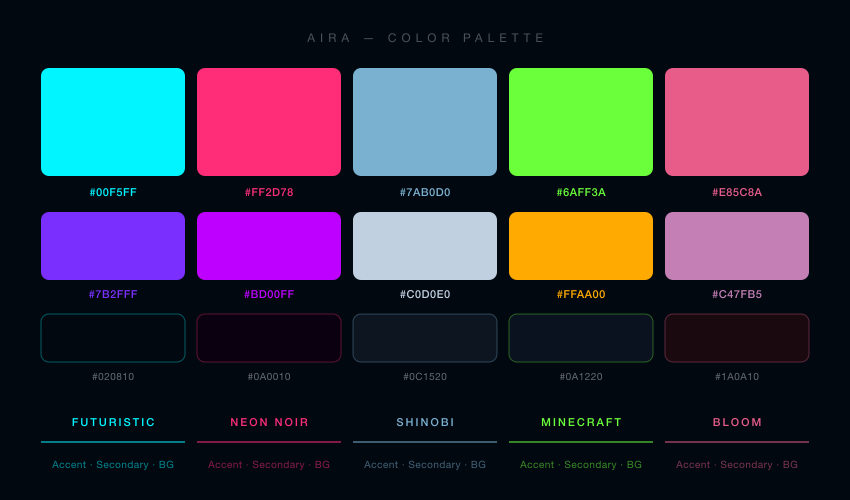
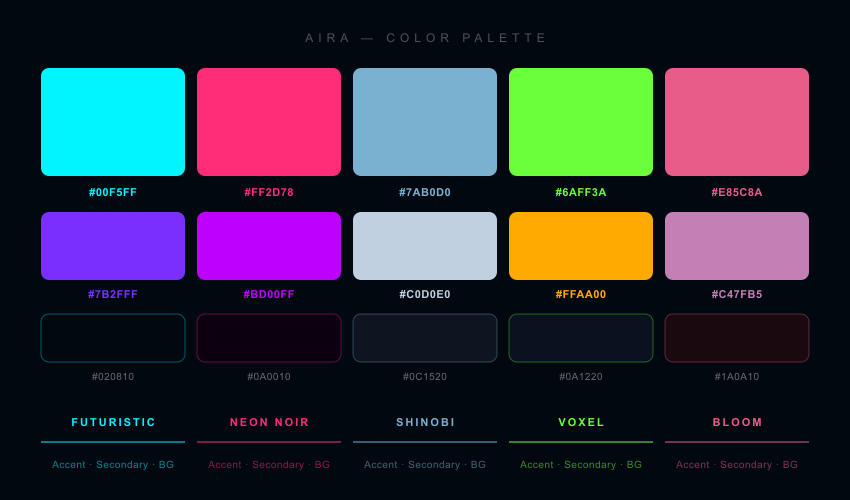
chore(brand): renombrar asset de tema minecraft -> voxel (issue #67)
- generate-brand-assets.js: config de tema minecraft -> voxel
- aira-minecraft.svg/png + aira-icon-minecraft -> aira-voxel.* (regenerados)
- aira-color-palette.svg: label MINECRAFT -> VOXEL
- brand/README.md, HANDOFF.md: tablas y descripciones sin marcas

Nota: PNGs de logo/social/icono no-relacionados NO se regeneraron para no
degradar el render de texto (esta maquina no tiene Helvetica Neue). Los
assets shipped (og-image, twitter-card, app icons) quedan intactos.

diff --git a/brand/generate-brand-assets.js b/brand/generate-brand-assets.js
@@ -24,7 +24,7 @@ const THEMES = [
   { id: 'futuristic', name: 'Futuristic', c1: '#00f5ff', c2: '#7b2fff', bg1: '#020810', bg2: '#0a1828' },
   { id: 'neon-noir',  name: 'Neon Noir',  c1: '#ff2d78', c2: '#bd00ff', bg1: '#0a0010', bg2: '#120020' },
   { id: 'shinobi',    name: 'Shinobi',    c1: '#7ab0d0', c2: '#c0d0e0', bg1: '#0c1520', bg2: '#1a2030' },
-  { id: 'minecraft',  name: 'Minecraft',  c1: '#6aff3a', c2: '#ffaa00', bg1: '#0a1220', bg2: '#182030' },
+  { id: 'voxel',      name: 'Voxel',      c1: '#6aff3a', c2: '#ffaa00', bg1: '#0a1220', bg2: '#182030' },
   { id: 'bloom',      name: 'Bloom',      c1: '#e85c8a', c2: '#c47fb5', bg1: '#1a0a10', bg2: '#280f1a' },
 ];
 const DEF  = THEMES[0]; // Default (Futuristic) used for primary brand color

diff --git a/HANDOFF.md b/HANDOFF.md
@@ -32,7 +32,7 @@
 | **Racha diaria** | `getDailyStreak()`: contador `{ date, count }` en localStorage (`fb_streak`). Badge `🔥 N DÍAS` en el header de los rings. |
 | **Metas de rings** | Recovery ≥100pts, Calorías 500 kcal activas (`#calv`), Pasos 10,000 (`#stepsv`), Min. Activos 30 min (cardio+peak HR zones), Sueño 8h=100%. |
 | **Escala desktop** | Grid `.mg` ampliado de 236px→272px. `@media(min-width:900px)` escala SVGs de 58px→44px para que los 5 rings quepan en la card narrow de desktop. |
-| **AIRA Narrative** | `genAiraMsg()`: mensaje contextual bajo el nombre del usuario. 9 pools de estado (peak/peak_great/peak_stress/peak_sleep/high/high_stress/high_sleep/mid/mid_stress/mid_sleep/low/low_stress/floor + demo) × ES/EN. 4 voces temáticas: naruto=chakra, mc=gaming, halo=SPARTAN, bloom=wellness (fut usa la voz default de AIRA). Modifiers: stress >65, sleepPct <50, sleepPct ≥75. Rotación diaria (`day % pool.length`). Fade-in con `.live` class. Llamado desde `updateScores()` + `setLang()`. |
+| **AIRA Narrative** | `genAiraMsg()`: mensaje contextual bajo el nombre del usuario. 9 pools de estado (peak/peak_great/peak_stress/peak_sleep/high/high_stress/high_sleep/mid/mid_stress/mid_sleep/low/low_stress/floor + demo) × ES/EN. 4 voces temáticas: shinobi=chakra, voxel=gaming, neonnoir=netrunner, bloom=wellness (fut usa la voz default de AIRA). Modifiers: stress >65, sleepPct <50, sleepPct ≥75. Rotación diaria (`day % pool.length`). Fade-in con `.live` class. Llamado desde `updateScores()` + `setLang()`. |
 | **`.wsrow` oculto** | `display:none` en CSS — los rings reemplazan ESFUERZO/RESP/SUEÑO visualmente. Los elementos siguen en DOM (los scripts que los actualizan no se rompen). |
 
 **Funciones clave añadidas:**
@@ -67,7 +67,7 @@
 
 | Área | Qué |
 |---|---|
-| **Naruto easter eggs** | Shuriken CSS spinners en `.vc` cards, kunai blade, makimono scroll tag (巻), scratch effect en labels, chip de rango dinámico (Aprendiz→Genin→Chunin→Jonin→Kage). |
+| **Shinobi easter eggs** | Shuriken CSS spinners en `.vc` cards, kunai blade, makimono scroll tag (巻), scratch effect en labels, chip de rango dinámico (Aprendiz→Genin→Chunin→Jonin→Kage). |
 | **Reorder biométrico** | Home: HR › HRV › Estrés › Cal › SpO₂ › Temp. Col3: Sueño primero, HR Chart segundo. Stats: Recovery › Sueño › HR Zonas › Cuerpo › Fitness. |
 | **Jiggle mode (edición widgets)** | Long-press 500ms → modo edición estilo iPhone. Badge `×` frosted-glass top-left para eliminar. Botón LISTO flotante. El `?` ya NO se dispara durante jiggle. |
 | **Drag & drop reorder** | En jiggle mode, arrastra widgets (touch y mouse). Ghost semitransparente + slot punteado de destino. Orden persiste en `localStorage (fb_wm_order)`. |
@@ -134,7 +134,7 @@ npm run typecheck                 # tsc --noEmit (correr antes de PR)
 ## 🧠 Contexto crítico
 
 - **`public/app.html`** es el único frontend (~3500 líneas, SPA vanilla). Casi todo el trabajo ocurre acá.
-- **4 temas** (`mc`/`halo`/`naruto`/`fut`): usa SIEMPRE CSS vars (`--ta`, `--ta2`, `--tpos`, `--tneg`, `--sub`, `--bg`, `--bg2`, `--bdr`, `--txt` ←texto, `--sat`) — nunca colores hard-coded. **OJO:** es `--txt`, no `--tx` (este último no existe → en SVG el `fill` se vuelve negro).
+- **6 temas** (`voxel`/`neonnoir`/`shinobi`/`fut`/`bloom`/`synth`): usa SIEMPRE CSS vars (`--ta`, `--ta2`, `--tpos`, `--tneg`, `--sub`, `--bg`, `--bg2`, `--bdr`, `--txt` ←texto, `--sat`) — nunca colores hard-coded. **OJO:** es `--txt`, no `--tx` (este último no existe → en SVG el `fill` se vuelve negro).
 - **i18n ES/EN obligatorio**: si añades string en `T.es`, añádelo en `T.en`. Aplica con `setText`/`setHTML` en `applyText()`.
 - **Coach key NUNCA en el cliente** — vive solo en `app/api/coach` (server). Es el patrón a seguir para cualquier integración con costo.
 - **Recovery = una sola fuente**: el anillo (`window._lastRec` vía `calcScores`). Stats lo refleja. No reintroducir cálculos paralelos.

diff --git a/brand/README.md b/brand/README.md
@@ -37,7 +37,7 @@ brand/
 │   │   ├── aira-futuristic.svg / -icon-futuristic.svg
 │   │   ├── aira-neon-noir.svg   / -icon-neon-noir.svg
 │   │   ├── aira-shinobi.svg     / -icon-shinobi.svg
-│   │   ├── aira-minecraft.svg   / -icon-minecraft.svg
+│   │   ├── aira-voxel.svg       / -icon-voxel.svg
 │   │   └── aira-bloom.svg       / -icon-bloom.svg
 │   │
 │   └── png/                    ← PNGs exportados (generados)
@@ -83,7 +83,7 @@ brand/
 | `futuristic` | Futuristic   | `#00f5ff` | `#7b2fff` | `#020810`  |
 | `neon-noir`  | Neon Noir    | `#ff2d78` | `#bd00ff` | `#0a0010`  |
 | `shinobi`    | Shinobi      | `#7ab0d0` | `#c0d0e0` | `#0c1520`  |
-| `minecraft`  | Minecraft    | `#6aff3a` | `#ffaa00` | `#0a1220`  |
+| `voxel`      | Voxel        | `#6aff3a` | `#ffaa00` | `#0a1220`  |
 | `bloom`      | Bloom        | `#e85c8a` | `#c47fb5` | `#1a0a10`  |
 
 ---
@@ -96,7 +96,7 @@ brand/
 | Tagline           | Helvetica Neue / Helvetica / Arial         | 300   |
 | UI principal      | IBM Plex Mono (monospace)                  | 400   |
 | Números / datos   | Rajdhani                                   | 400–600 |
-| Tema Minecraft    | VT323 (pixel font)                         | 400   |
+| Tema Voxel        | VT323 (pixel font)                         | 400   |
 | Tema Shinobi      | Noto Serif JP + Permanent Marker           | varies|
 | Tema Bloom        | Nunito                                     | 400   |
 
